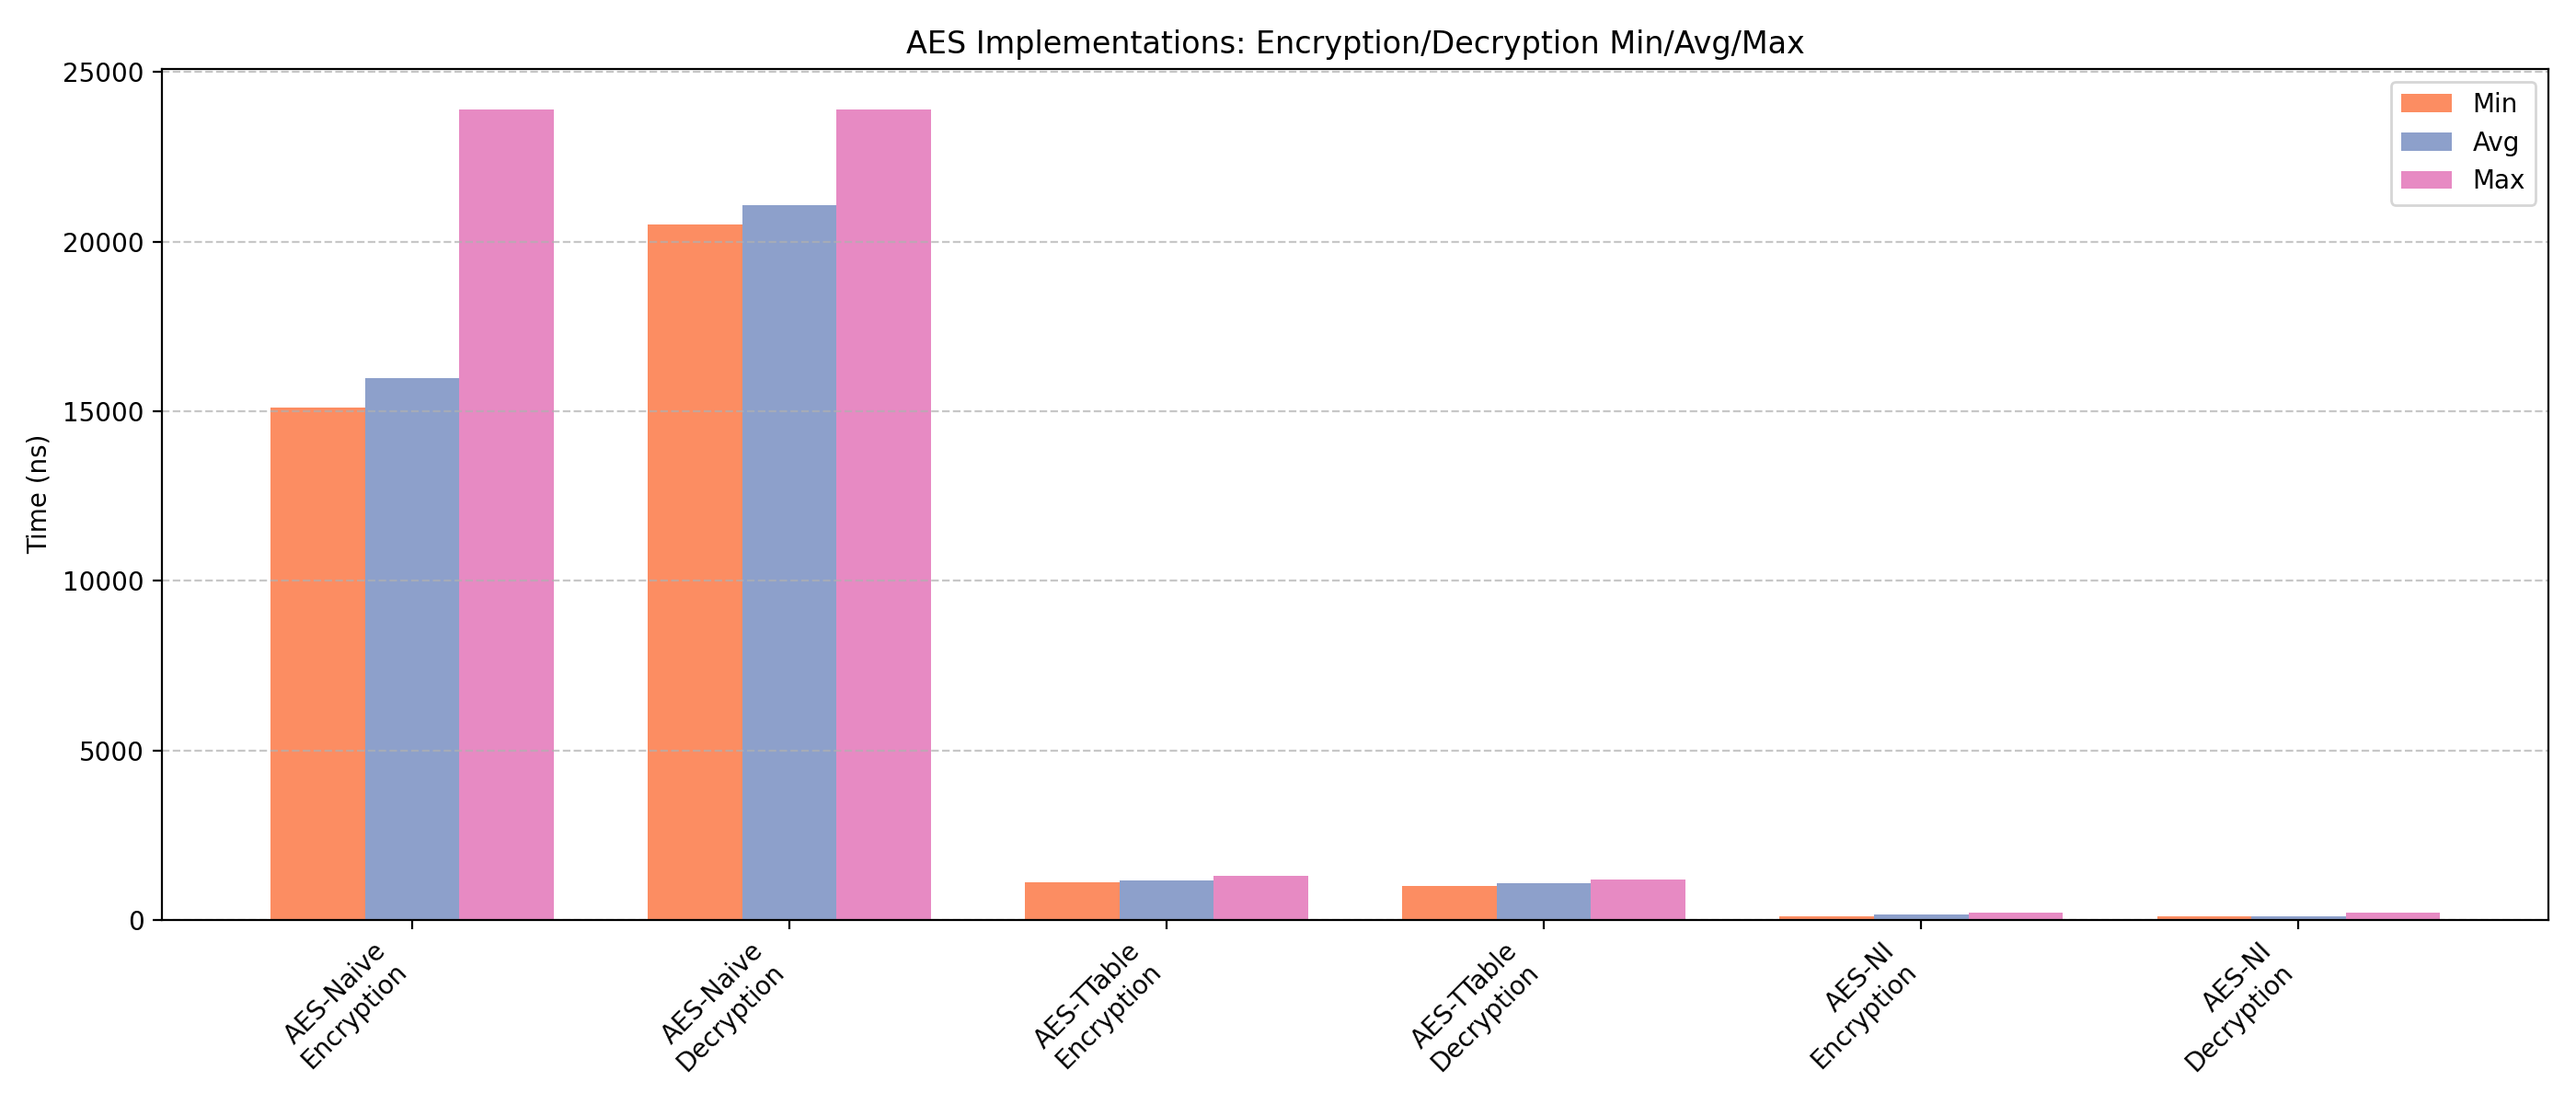
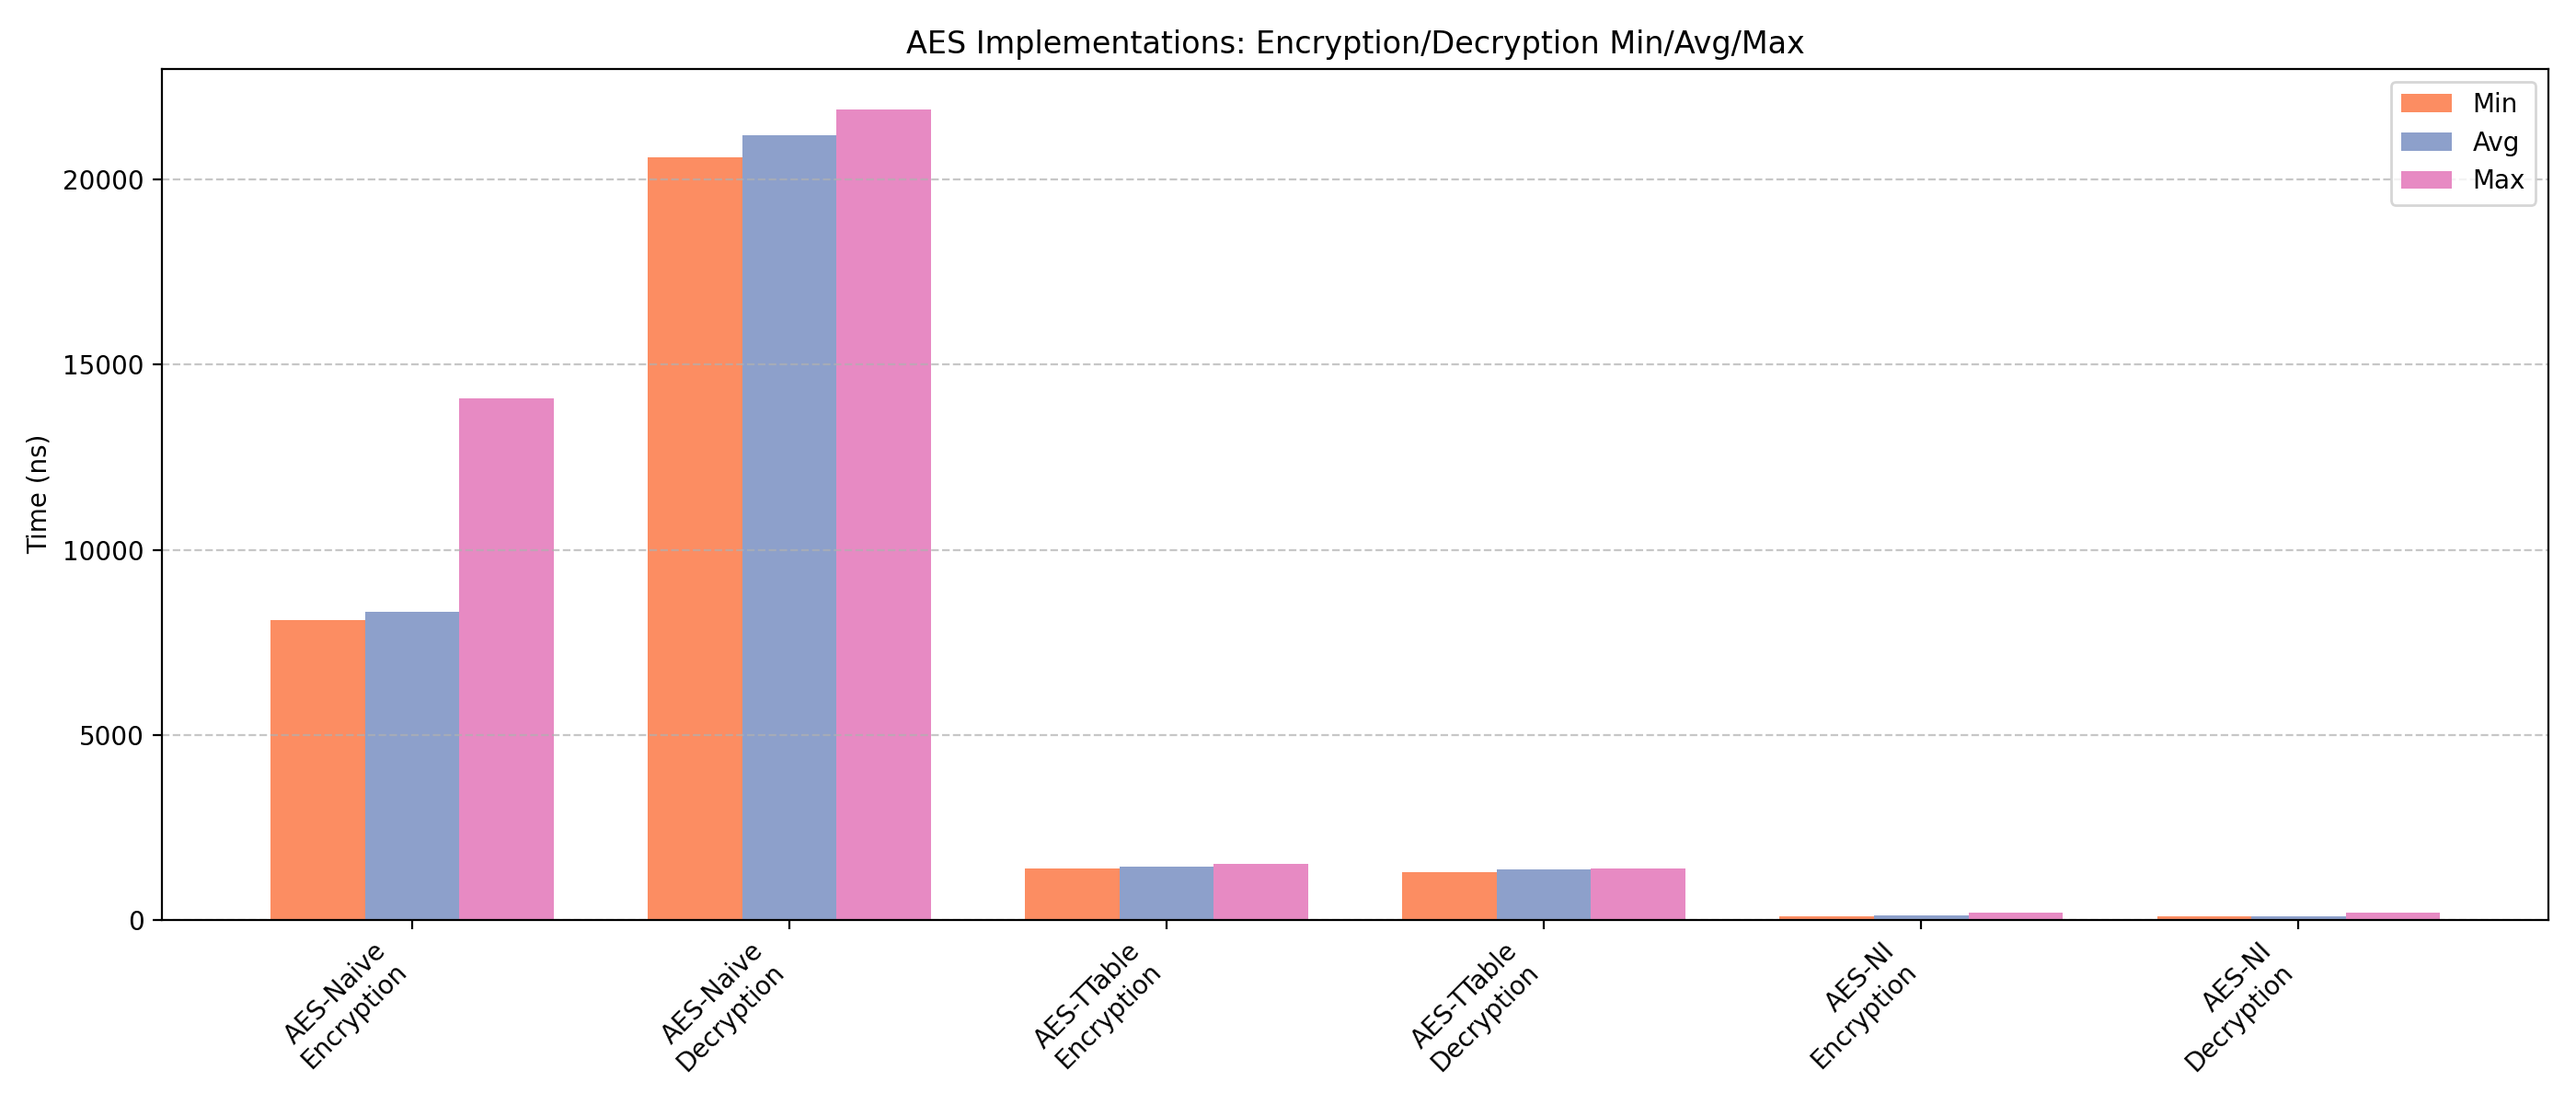
switched to mix_columns_fast and edited Shift_Rows to not use rotate

diff --git a/src/aes_naive.cpp b/src/aes_naive.cpp
@@ -113,27 +113,7 @@ void AesNaive::inv_sub_bytes(State &state)
 
 //NOTE: SLOWER THAN MIX COLUMNS BECAUSE OF ROTATE!!!
 
-// void AesNaive::shift_rows(State &state)
-// {
-//     // Row 1: shift left by 1
-//     Byte tmp = state[1][0];
-//     state[1][0] = state[1][1];
-//     state[1][1] = state[1][2];
-//     state[1][2] = state[1][3];
-//     state[1][3] = tmp;
-
-//     // Row 2: shift left by 2
-//     std::swap(state[2][0], state[2][2]);
-//     std::swap(state[2][1], state[2][3]);
-
-//     // Row 3: shift left by 3 (or right by 1)
-//     tmp = state[3][3];
-//     state[3][3] = state[3][2];
-//     state[3][2] = state[3][1];
-//     state[3][1] = state[3][0];
-//     state[3][0] = tmp;
-// }
-
+/*
 void AesNaive::shift_rows(State &state)
 {
     // Row 0: No shift
@@ -150,7 +130,31 @@ void AesNaive::shift_rows(State &state)
     // Row 3: Shift left by 3 (or right by 1)
     rotate(state[3].begin(), state[3].begin() + 3, state[3].end());
 }
+    */
 
+    
+void AesNaive::shift_rows(State &state)
+{
+    // Row 1: shift left by 1
+    Byte tmp = state[1][0];
+    state[1][0] = state[1][1];
+    state[1][1] = state[1][2];
+    state[1][2] = state[1][3];
+    state[1][3] = tmp;
+
+    // Row 2: shift left by 2
+    std::swap(state[2][0], state[2][2]);
+    std::swap(state[2][1], state[2][3]);
+
+    // Row 3: shift left by 3 (or right by 1)
+    tmp = state[3][3];
+    state[3][3] = state[3][2];
+    state[3][2] = state[3][1];
+    state[3][1] = state[3][0];
+    state[3][0] = tmp;
+}
+
+/*
 void AesNaive::inv_shift_rows(State &state)
 {
     // Row 0: No shift
@@ -163,6 +167,30 @@ void AesNaive::inv_shift_rows(State &state)
 
     // Row 3: Shift right by 3 (or left by 1)
     rotate(state[3].begin(), state[3].begin() + 1, state[3].end());
+}
+    */
+
+void AesNaive::inv_shift_rows(State &state)
+{
+    // Row 0: no shift
+
+    // Row 1: shift right by 1
+    Byte tmp = state[1][3];
+    state[1][3] = state[1][2];
+    state[1][2] = state[1][1];
+    state[1][1] = state[1][0];
+    state[1][0] = tmp;
+
+    // Row 2: shift right by 2
+    std::swap(state[2][0], state[2][2]);
+    std::swap(state[2][1], state[2][3]);
+
+    // Row 3: shift right by 3 (or left by 1)
+    tmp = state[3][0];
+    state[3][0] = state[3][1];
+    state[3][1] = state[3][2];
+    state[3][2] = state[3][3];
+    state[3][3] = tmp;
 }
 
 // Third operation of the encryption process (in the looping rounds)
@@ -407,9 +435,9 @@ std::array<Byte, BLOCK_SIZE> AesNaive::encrypt_block(const Block &block)
     {
         sub_bytes(state);
         shift_rows(state);
-        mix_columns(state);
+        //mix_columns(state);
         //Alternatively, we can use the faster version of mix_columns
-        // mix_columns_fast(state);
+        mix_columns_fast(state);
         add_round_key(state, get_round_key(round));
     }
 

diff --git a/README.md b/README.md
@@ -44,7 +44,15 @@ Then setup WSL as default. or first time open, It will ask to create linux usern
 
 
 ----
+Setup Python on Windows
 
+navigate to root folder "aesbenchmark"
+python -m venv .venv
+.\.venv\Scripts\activate
+python.exe -m pip install --upgrade pip
+pip install matplotlib pandas
+
+----
 Setup Python on Ubuntu
 
 sudo apt install python3.12-venv
